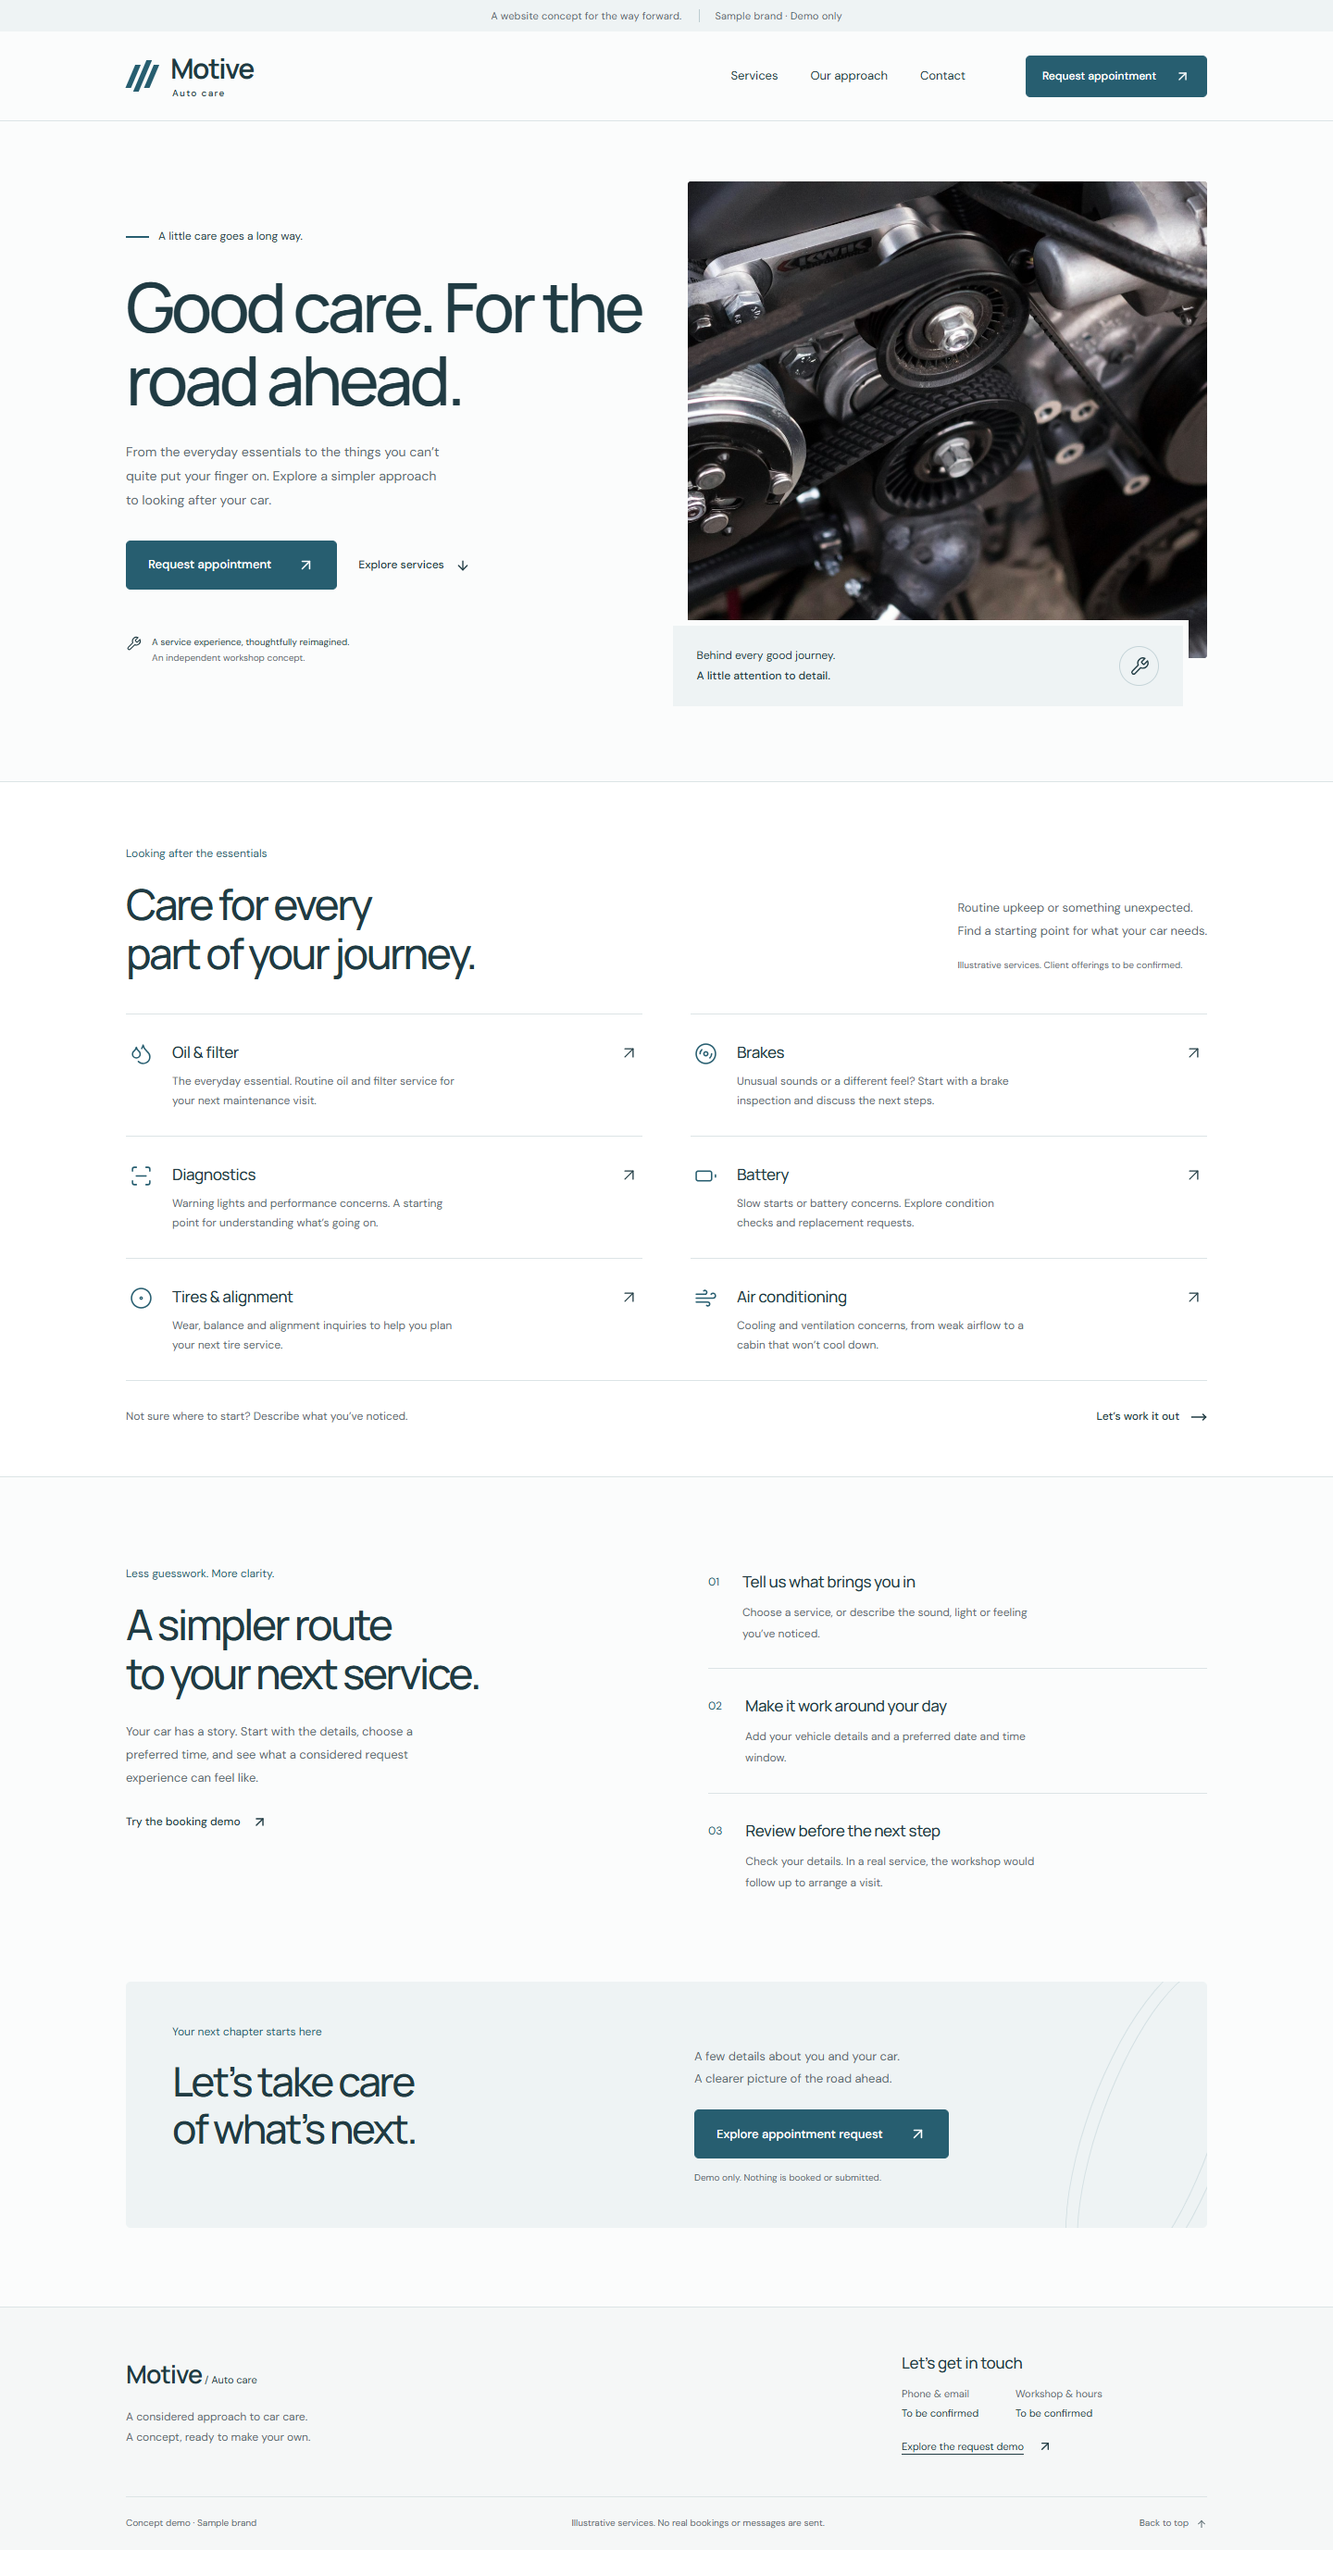
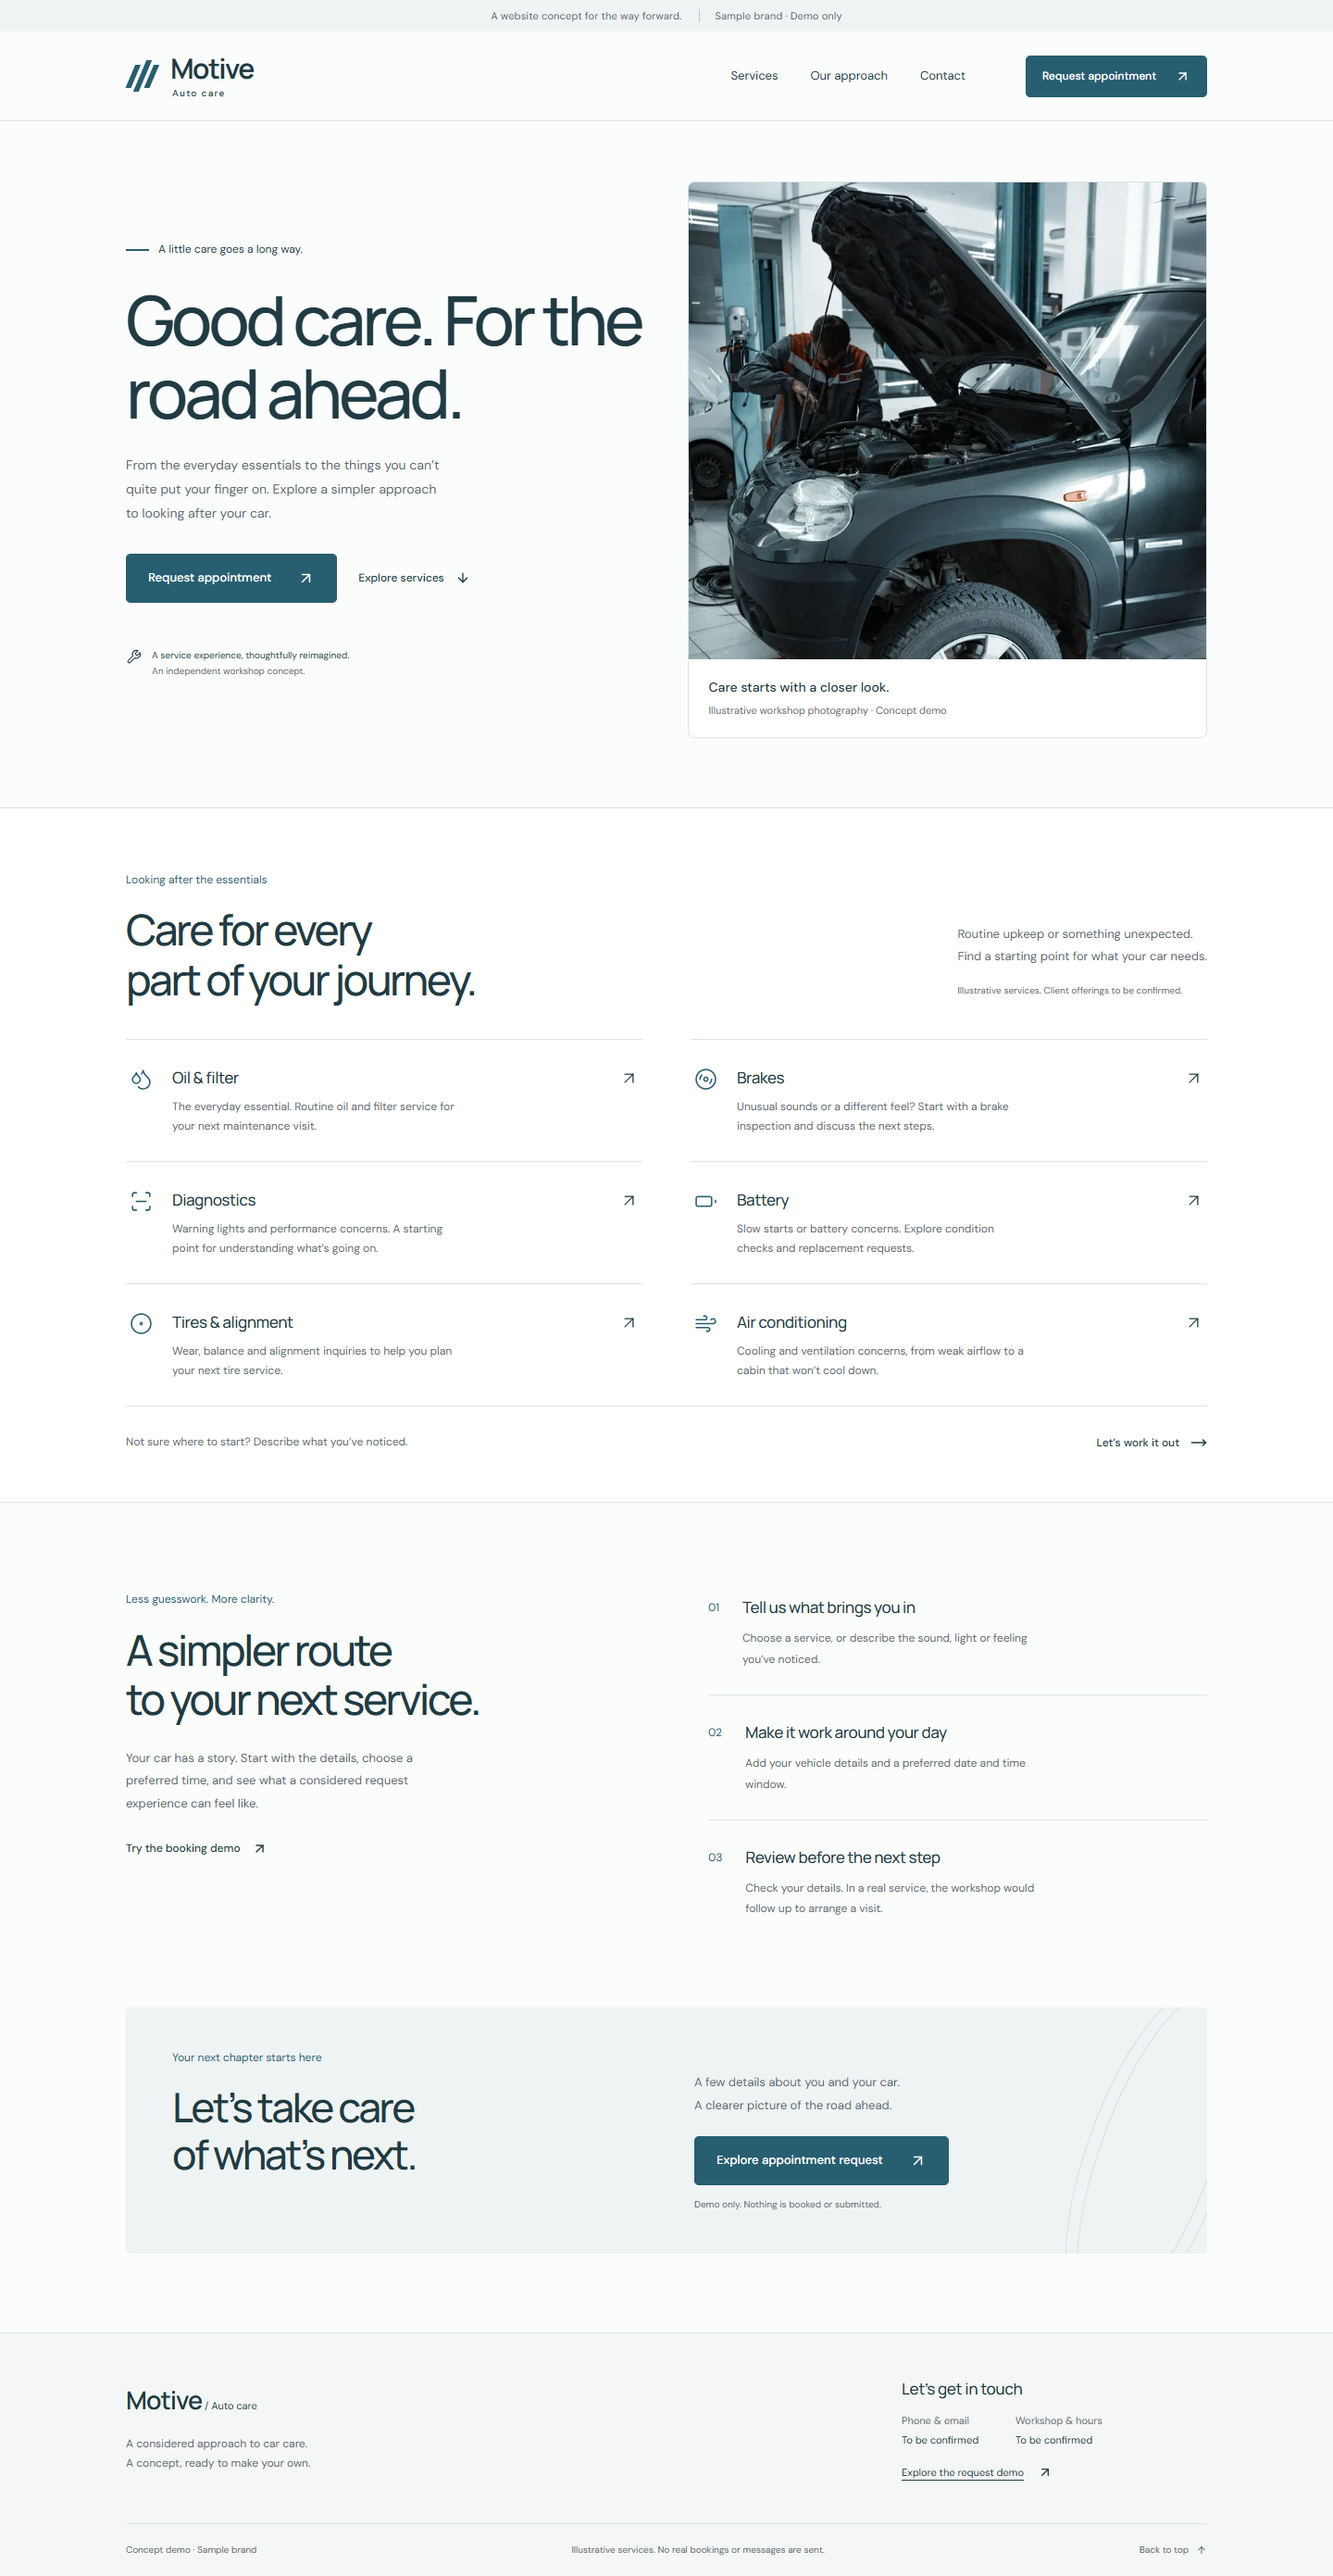
Refine hero with authentic service photo and integrated caption

diff --git a/src/app/globals.css b/src/app/globals.css
@@ -308,43 +308,33 @@ h2:focus {
   margin-top: 2px;
 }
 .hero-visual {
-  position: relative;
-  padding-bottom: 58px;
+  margin: 0;
+  overflow: hidden;
+  border: 1px solid var(--line);
+  border-radius: 7px;
+  background: var(--white);
 }
 .hero-photo {
   position: relative;
   height: 470px;
   overflow: hidden;
-  border-radius: 3px;
 }
 .hero-photo img {
   object-fit: cover;
-  object-position: 52% center;
+  object-position: 45% 45%;
 }
 .photo-caption {
-  position: absolute;
-  bottom: 0;
-  left: -22px;
-  right: 20px;
-  background: var(--wash);
-  padding: 22px 26px;
-  display: flex;
-  align-items: center;
-  justify-content: space-between;
-  border: 6px solid var(--paper);
-  font-size: 12px;
-  line-height: 1.8;
+  padding: 19px 22px;
+  display: grid;
+  gap: 3px;
+  font-size: 11px;
+  line-height: 1.7;
+  color: var(--muted);
 }
 .photo-caption strong {
   font-weight: 500;
-}
-.caption-icon {
-  display: grid;
-  place-items: center;
-  width: 43px;
-  height: 43px;
-  border: 1px solid #c5d4d8;
-  border-radius: 50%;
+  font-size: 14px;
+  color: var(--ink);
 }
 .services-section {
   background: var(--white);
@@ -1108,25 +1098,15 @@ footer {
   .hero-note {
     display: none;
   }
-  .hero-visual {
-    padding-bottom: 44px;
-  }
   .hero-photo {
     height: 330px;
   }
   .hero-photo img {
-    object-position: center 44%;
+    object-position: 45% 45%;
   }
   .photo-caption {
-    left: 12px;
-    right: 12px;
-    padding: 15px 17px;
-    border-width: 5px;
-    font-size: 11px;
-  }
-  .caption-icon {
-    width: 36px;
-    height: 36px;
+    padding: 15px 18px;
+    font-size: 10px;
   }
   .services-section {
     padding-top: 44px;

diff --git a/src/app/page.tsx b/src/app/page.tsx
@@ -31,27 +31,21 @@ export default function Home() {
             </span>
           </div>
         </div>
-        <div className="hero-visual">
+        <figure className="hero-visual">
           <div className="hero-photo">
             <Image
-              src="/images/workshop.jpg"
+              src="/images/service-work.jpg"
               alt={content.imageAlt}
               fill
               priority
               sizes="(max-width: 760px) 100vw, 50vw"
             />
           </div>
-          <div className="photo-caption">
-            <span>
-              {content.caption[0]}
-              <br />
-              <strong>{content.caption[1]}</strong>
-            </span>
-            <span className="caption-icon">
-              <Wrench size={22} strokeWidth={1.5} aria-hidden="true" />
-            </span>
-          </div>
-        </div>
+          <figcaption className="photo-caption">
+            <strong>{content.caption[0]}</strong>
+            <span>{content.caption[1]}</span>
+          </figcaption>
+        </figure>
       </section>
       <section id="services" className="services-section">
         <div className="container">

diff --git a/src/content/site.ts b/src/content/site.ts
@@ -71,8 +71,8 @@ export const homeContent = {
   intro: "A little care goes a long way.",
   note: "A service experience, thoughtfully reimagined.",
   noteDetail: "An independent workshop concept.",
-  imageAlt: "Close-up of an automotive engine with belts, pulleys and hoses",
-  caption: ["Behind every good journey.", "A little attention to detail."],
+  imageAlt: "Mechanic working under the open hood of a silver vehicle in a workshop",
+  caption: ["Care starts with a closer look.", "Illustrative workshop photography · Concept demo"],
   services: {
     kicker: "Looking after the essentials",
     title: ["Care for every", "part of your journey."],

diff --git a/tests/site.spec.ts b/tests/site.spec.ts
@@ -9,7 +9,7 @@ test("homepage, navigation, responsive layout and image", async ({
     "Good care. For the road ahead.",
   );
   const photo = page.getByAltText(
-    "Close-up of an automotive engine with belts, pulleys and hoses",
+    "Mechanic working under the open hood of a silver vehicle in a workshop",
   );
   await expect(photo).toBeVisible();
   await expect

diff --git a/DESIGN_NOTES.md b/DESIGN_NOTES.md
@@ -1,10 +1,10 @@
 # Motive concept direction
 
-The subject is everyday automotive care, expressed through precise alignment, an engine-detail photograph and calm service language. The sample brand is explicitly provisional.
+The subject is everyday automotive care, expressed through precise alignment, authentic workshop photography and calm service language. The sample brand is explicitly provisional.
 
 - Palette: paper `#FBFCFC`, white `#FFFFFF`, ink `#203B43`, secondary `#5B6B70`, petrol `#275E70`, cool wash `#EEF3F4`; borders `#DCE4E6`.
 - Type: Manrope for confident geometric headings; DM Sans for body and controls, loaded with `next/font`. No uppercase label system.
-- Layout: left-aligned split hero, offset photograph caption, two-column service list, a sequential approach section, and a compact appointment invitation. On mobile these become a deliberately spaced single column with an expandable navigation.
+- Layout: left-aligned split hero, workshop photograph with an integrated caption below it, two-column service list, a sequential approach section, and a compact appointment invitation. On mobile these become a deliberately spaced single column with an expandable navigation.
 - Shape: 5px controls, restrained surfaces, hairline separators. Service offerings are linked rows rather than floating cards. Lucide is the sole UI icon library.
 - Motion: only interaction feedback; reduced motion disables transitions and smooth scrolling.
 
@@ -12,8 +12,8 @@ Composition:
 
 ```text
 brand              navigation       request
-large headline             engine photograph
-description + actions      offset caption
+large headline             workshop photograph
+description + actions      integrated caption
 service heading            honest service context
 service rows               service rows
 approach introduction      three sequential steps
@@ -21,4 +21,4 @@ appointment invitation     demo action
 brand / concept            contact placeholders
 ```
 
-The plan was reviewed against the brief before composition: retain the automotive editorial feel, but avoid a newspaper layout, generic card grids, dark sections, fabricated trust signals and decorative counters. The close-up engine image is the visual anchor; surrounding sections stay quiet. One consistent palette runs through home and booking.
+The plan was reviewed against the brief before composition: retain the automotive editorial feel, but avoid a newspaper layout, generic card grids, dark sections, fabricated trust signals and decorative counters. Authentic maintenance work is the visual anchor; surrounding sections stay quiet. One consistent palette runs through home and booking.

diff --git a/public/images/CREDITS.md b/public/images/CREDITS.md
@@ -1,5 +1,10 @@
 # Image credit
 
+`service-work.jpg`: mechanic working under the hood of a silver vehicle, downloaded from Unsplash's image CDN:
+https://images.unsplash.com/photo-1625047509168-a7026f36de04
+
+This is the current homepage photograph. The original engine-detail photograph below is retained as an unused asset.
+
 `workshop.jpg`: automotive engine detail, downloaded from Unsplash's image CDN:
 https://images.unsplash.com/photo-1486262715619-67b85e0b08d3
 
